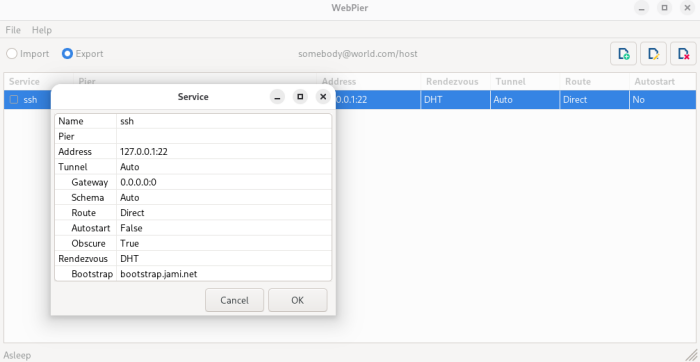
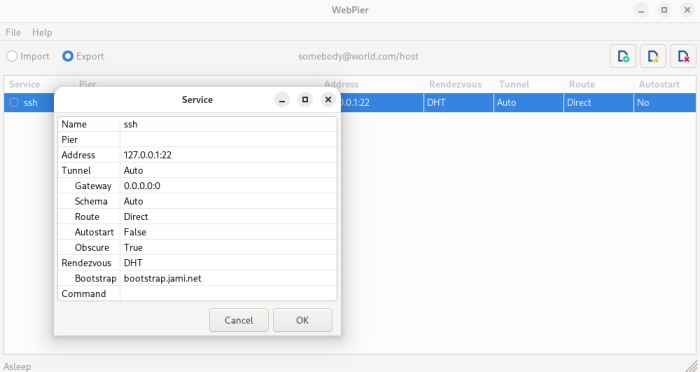
ability to run user command at service startup

diff --git a/src/backend/server.cpp b/src/backend/server.cpp
@@ -229,6 +229,7 @@ namespace slipway
                         "--quality=" + wormhole::criteria::to_string(term.qos),
                         "--journal=" + webpier::make_path(m_config.log.folder, "carrier.%p.log"),
                         "--logging=" + std::to_string(m_config.log.level),
+                        "--autorun=" + std::string(m_service.command.empty() ? "\"\"" : m_service.command),
                         bp::on_exit = [this, weak = weak_from_this(), pid](int code, const std::error_code& ec)
                         {
                             if (ec && ec != std::errc::no_child_process)
@@ -574,6 +575,7 @@ namespace slipway
                                 plexus::routing::favour(item.second.get<int>("route", plexus::routing::direct)),
                                 item.second.get<bool>("autostart", false),
                                 item.second.get<bool>("obscure", true),
+                                webpier::utf8_to_locale(item.second.get<std::string>("command", ""))
                             };
                         }
                     }
@@ -619,7 +621,8 @@ namespace slipway
                                 wormhole::schema(item.second.get<int>("role", local ? wormhole::schema::server : wormhole::schema::client)),
                                 plexus::routing::favour(item.second.get<int>("route", plexus::routing::direct)),
                                 item.second.get<bool>("autostart", false),
-                                item.second.get<bool>("obscure", true)
+                                item.second.get<bool>("obscure", true),
+                                webpier::utf8_to_locale(item.second.get<std::string>("command", ""))
                             });
                         }
                     }

diff --git a/src/ui/servicedialog.cpp b/src/ui/servicedialog.cpp
@@ -66,6 +66,7 @@ CServiceDialog::CServiceDialog(WebPier::Context::ConfigPtr config, WebPier::Cont
     m_rendItem = m_propGrid->Append( new wxEnumProperty( _("Rendezvous"), wxPG_LABEL, rendChoice, wxArrayInt(), m_service->Rendezvous.IsEmpty() ? 0 : 1 ) );
     m_bootItem = m_rendItem->InsertChild( 0, new wxStringProperty( _("Bootstrap"), wxPG_LABEL, m_service->Rendezvous ) );
     m_bootItem->Hide(m_service->Rendezvous.IsEmpty());
+    m_cmdItem = m_propGrid->Append( new wxStringProperty( _("Command"), wxPG_LABEL, m_service->Command ) );
 
     mainSizer->Add( m_propGrid, 1, wxALL|wxEXPAND, 5 );
 
@@ -82,7 +83,7 @@ CServiceDialog::CServiceDialog(WebPier::Context::ConfigPtr config, WebPier::Cont
     this->SetSizer( mainSizer );
     this->Layout();
 
-    m_propGrid->SetMinSize(wxSize(400, m_propGrid->GetRowHeight() * 11));
+    m_propGrid->SetMinSize(wxSize(400, m_propGrid->GetRowHeight() * 12));
     m_propGrid->FitColumns();
 
     mainSizer->Fit( this );
@@ -122,6 +123,7 @@ void CServiceDialog::onOKButtonClick( wxCommandEvent& event )
     m_service->Name = m_nameItem->GetValueAsString();
     m_service->Pier = m_service->Local ? wxJoin(m_pierItem->GetValue().GetArrayString(), ' ') : m_pierItem->GetValueAsString();
     m_service->Address = m_addrItem->GetValueAsString();
+    m_service->Command = m_cmdItem->GetValueAsString();
     m_service->Gateway = m_gateItem->GetValueAsString();
     m_service->Proto = static_cast<WebPier::Context::Service::Protocol>(m_protoItem->GetValue().GetLong());
     m_service->Role = static_cast<WebPier::Context::Service::Schema>(m_roleItem->GetValue().GetLong());

diff --git a/src/backend/tunnel.cpp b/src/backend/tunnel.cpp
@@ -28,6 +28,7 @@ int main(int argc, char *argv[])
         ("gateway,g", boost::program_options::value<wormhole::endpoint>()->required())
         ("faraway,f", boost::program_options::value<wormhole::endpoint>()->required())
         ("quality,q", boost::program_options::value<wormhole::criteria>()->default_value(wormhole::criteria()))
+        ("autorun,a", boost::program_options::value<std::string>()->default_value(""))
         ("journal,j", boost::program_options::value<std::string>()->default_value(""))
         ("logging,l", boost::program_options::value<wormhole::log::severity>()->default_value(wormhole::log::info));
 
@@ -68,6 +69,7 @@ int main(int argc, char *argv[])
         auto gateway = vm["gateway"].as<wormhole::endpoint>();
         auto faraway = vm["faraway"].as<wormhole::endpoint>();
         auto quality = vm["quality"].as<wormhole::criteria>();
+        auto autorun = vm["autorun"].as<std::string>();
 
         wormhole::security guard = { 
             vm["secret"].as<uint64_t>(),
@@ -83,8 +85,8 @@ int main(int argc, char *argv[])
         boost::asio::io_context io;
 
         auto router = purpose == "import"
-            ? wormhole::create_importer(io, service, gateway, faraway, quality, guard)
-            : wormhole::create_exporter(io, service, gateway, faraway, quality, guard);
+            ? wormhole::create_importer(io, service, gateway, faraway, quality, guard, autorun)
+            : wormhole::create_exporter(io, service, gateway, faraway, quality, guard, autorun);
         router->launch();
 
         io.run();

diff --git a/src/ui/context.cpp b/src/ui/context.cpp
@@ -126,7 +126,8 @@ namespace WebPier
                 && lhs->Role == rhs->Role
                 && lhs->Route == rhs->Route
                 && lhs->Autostart == rhs->Autostart
-                && lhs->Obscure == rhs->Obscure;
+                && lhs->Obscure == rhs->Obscure
+                && lhs->Command == rhs->Command;
         }
 
         class ServiceImpl : public Service
@@ -157,7 +158,8 @@ namespace WebPier
                     static_cast<wormhole::schema>(Role),
                     static_cast<plexus::routing::favour>(Route),
                     Autostart,
-                    Obscure
+                    Obscure,
+                    Command.ToStdString()
                 };
 
                 try
@@ -231,6 +233,7 @@ namespace WebPier
                 Route = static_cast<Routing>(m_origin.route);
                 Autostart = m_origin.autostart;
                 Obscure = m_origin.obscure;
+                Command = m_origin.command;
             }
 
             void AddPier(const wxString& pier) noexcept(true) override
@@ -280,7 +283,8 @@ namespace WebPier
                     || Role != static_cast<Schema>(m_origin.role)
                     || Route != static_cast<Routing>(m_origin.route)
                     || Autostart != m_origin.autostart
-                    || Obscure != m_origin.obscure;
+                    || Obscure != m_origin.obscure
+                    || Command.ToStdString() != m_origin.command;
             }
 
             bool IsIPv6() const noexcept(true) override

diff --git a/tests/slipway.cpp b/tests/slipway.cpp
@@ -36,8 +36,8 @@ BOOST_AUTO_TEST_CASE(client)
 
     auto job = std::async(std::launch::async, [&io] { io.run(); });
 
-    webpier::service foo { true, "foo", peer, "127.0.0.1:1234", webpier::default_ip4_gateway, webpier::default_dht_bootstrap, wormhole::protocol::udp, wormhole::schema::either, plexus::routing::either, true, false };
-    webpier::service bar { true, "bar", peer, "127.0.0.1:5678", webpier::default_ip4_gateway, webpier::default_dht_bootstrap, wormhole::protocol::udp, wormhole::schema::either, plexus::routing::either, true, false };
+    webpier::service foo { true, "foo", peer, "127.0.0.1:1234", webpier::default_ip4_gateway, webpier::default_dht_bootstrap, wormhole::protocol::udp, wormhole::schema::either, plexus::routing::either, true, false, "" };
+    webpier::service bar { true, "bar", peer, "127.0.0.1:5678", webpier::default_ip4_gateway, webpier::default_dht_bootstrap, wormhole::protocol::udp, wormhole::schema::either, plexus::routing::either, true, false, "" };
 
     slipway::handle foo_handle { host, "foo" };
     slipway::health foo_asleep { foo_handle, slipway::health::asleep };

diff --git a/src/store/context.h b/src/store/context.h
@@ -117,16 +117,16 @@ namespace webpier
         wormhole::protocol proto = wormhole::protocol::any;
         wormhole::schema role = wormhole::schema::either;
         plexus::routing::favour route = plexus::routing::direct;
-
         bool autostart = false;
         bool obscure = true;
+        std::string command;
 
         bool operator==(const service& other)
         {
-            return local == other.local && name == other.name && pier == other.pier
-                && address == other.address && gateway == other.gateway && rendezvous == other.rendezvous
+            return local == other.local && name == other.name && pier == other.pier && address == other.address
+                && gateway == other.gateway && rendezvous == other.rendezvous
                 && proto == other.proto && role == other.role && route == other.route
-                && autostart == other.autostart && obscure == other.obscure;
+                && autostart == other.autostart && obscure == other.obscure && command == other.command;
         }
     };
 

diff --git a/src/store/context.cpp b/src/store/context.cpp
@@ -191,6 +191,7 @@ namespace webpier
                             unit.route = plexus::routing::favour(item.second.get<int>("route", plexus::routing::direct));
                             unit.autostart = item.second.get<bool>("autostart", false);
                             unit.obscure = item.second.get<bool>("obscure", true);
+                            unit.command = utf8_to_locale(item.second.get<std::string>("command", ""));
                             services.emplace(unit.name, unit);
                         }
                     }
@@ -223,6 +224,7 @@ namespace webpier
                         item.put("route", static_cast<int>(unit.second.route));
                         item.put("autostart", unit.second.autostart);
                         item.put("obscure", unit.second.obscure);
+                        item.put("command", locale_to_utf8(unit.second.command));
                         array.push_back(std::make_pair("", item));
                     }
 

diff --git a/tests/context.cpp b/tests/context.cpp
@@ -85,8 +85,9 @@ BOOST_AUTO_TEST_CASE(context)
         wormhole::schema::either,
         plexus::routing::either,
         true,
-        false
-        };
+        false,
+        ""
+    };
 
     webpier::generate_x509_pair(dest / "cert.crt", dest / "private.key", peer);
     auto peer_certificate = webpier::load_x509_cert(dest / "cert.crt");

diff --git a/src/ui/servicedialog.h b/src/ui/servicedialog.h
@@ -24,6 +24,7 @@ class CServiceDialog : public wxDialog
     wxPGProperty* m_nameItem;
     wxPGProperty* m_pierItem;
     wxPGProperty* m_addrItem;
+    wxPGProperty* m_cmdItem;
     wxPGProperty* m_gateItem;
     wxPGProperty* m_protoItem;
 	wxPGProperty* m_roleItem;

diff --git a/src/ui/context.h b/src/ui/context.h
@@ -49,6 +49,7 @@ namespace WebPier
             Routing Route;
             bool Autostart;
             bool Obscure;
+            wxString Command;
 
             virtual ~Service() {}
             virtual void Store() noexcept(false) = 0;

diff --git a/README.md b/README.md
@@ -38,6 +38,7 @@ You should specify accessible STUN servers if NAT traverse is needed, DHT bootst
 * **Autostart** - should the service be run with the application startup or manually
 * **Obscure** - should the transport UDP/TCP tunnel be obfuscated, must be equal for both sides
 * **Rendezvous** - rendezvous service, must match the remote side
+* **Command** - command to pre-launch on export or post-launch on import
 
 After that you have to create the *offer* for your partner. Invoke the dialogs from the *"File -> Create an offer..."* menu, select your services you want to offer and save the *offer* file. The *offer* will also contain public key of your pier.
 

diff --git a/CHANGELOG.md b/CHANGELOG.md
@@ -1,5 +1,9 @@
 # Change Log
 
+## 1.2.1 (Jul 25, 2026)
+
+- Run a custom command before starting the export or after starting the import
+
 ## 1.2.0 (Jul 4, 2026)
 
 - Ability to connect services via Ricochet relay server
